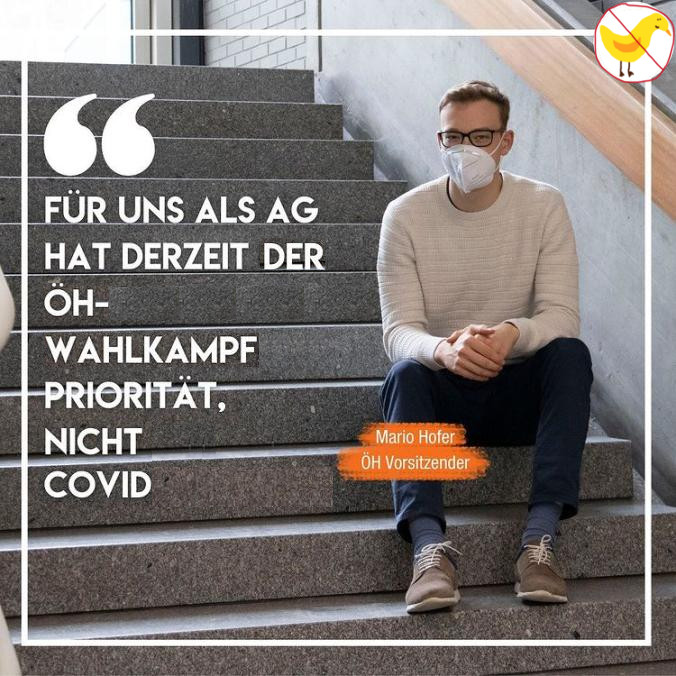
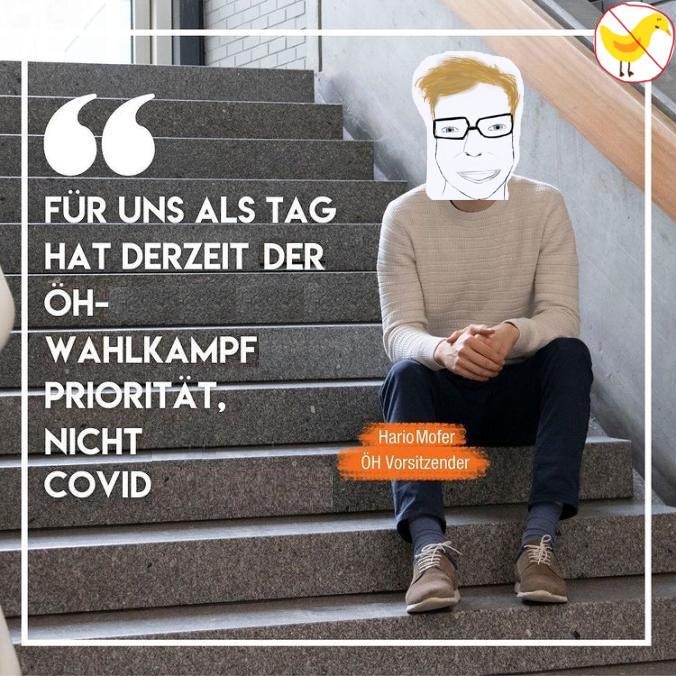
sinnvolle Vertretungsarbeit

Changed region(s): [[0.5902, 0.0621, 0.7766, 0.3107], [0.3728, 0.2796, 0.497, 0.3417], [0.5592, 0.6213, 0.6524, 0.6524]]

diff --git a/pages/imprint.vue b/pages/imprint.vue
@@ -11,6 +11,9 @@
       E-Mail:
       <a href="mailto:hario.mofer@uniteicht.at">hario.mofer@uniteicht.at</a>
     </p>
+    <p>
+      Die Projektseite findest du unter <a href="https://github.com/uniteicht/uniteicht.github.io" target="_blank"><img class="icon" src="/img/external-link-symbol.svg" />https://github.com/uniteicht/uniteicht.github.io</a>.
+    </p>
 
     <h2>Credits</h2>
     <p>
@@ -19,7 +22,15 @@
         >Dave Gandy</a
       >
       from
-      <a href="https://www.flaticon.com/" title="Flaticon">www.flaticon.com</a>
+      <a href="https://www.flaticon.com/" title="Flaticon">www.flaticon.com</a><br/>  
+      Vielen Dank an Alle, die bereits an ihrer kreativen Ader geritzt, und so viel Herzblut in dieses Projekt gegossen haben.
+      
+      <!-- 
+        Erwähnung bitte hier über diesem Kommentar einfügen.
+        Dein Github Benutzername muss mit dem Account übereinstimmen, der den Pull-Request erstellt hat.
+        Beispiel:
+        [M. Muster](github.com/dein-github-benutzername)
+       -->
     </p>
 
     <h2>Webdesign</h2>

diff --git a/README.md b/README.md
@@ -1,9 +1,37 @@
 # This is sirius business.
 
+Seite ist erreichbar unter [https://uniteicht.at](https://uniteicht.at)
+
 ## Du willst auch sinnvolle Vertretungsarbeit leisten?
 1. Projekt forken und herunterladen
+1. Kreativ werden! (Nutze bei Bedarf auch die Vorlagen im templates Ordner als Inspiration)
 1. Meme unter /static/meme ablegen
 1. Datei /components/MemeList.vue editieren (Anleitung direkt in der Datei)
 1. Committen, Pushen und Pull-Request mit dem Titel "sinnvolle Vertretungsarbeit" und leerer Beschreibung erstellen
 1. ???
 1. Profit!
+
+Wenn du dafür in den Credits erwähnt werden willst, kannst du dich direkt bei den Credits in der Datei /pages/imprint.vue eintragen. Das dann aber bitte im Pull-Request anmerken!
+
+---
+
+## Hario Mofer
+(Kunstfigur, Ähnlichkeiten mit lebenden Personen sind rein zufällig)
+
+Hario ist Vorsitzender einer wichtigen Organisation. Wir nennen diese hier meistens einfach nur "ÖH". Hario ist auch Teil der deiner Taktionsgemeinschaft. 
+Er spielt gerne Klarinette und mit seiner Brille.
+Gerne steht er auch im Rampenlicht.
+Manchmal auch daneben. Wenn auch nur ungern. Hario ärgert sich. Das ist unfair.
+
+Grafische Vorlagen, unter anderem für die Kunstfigur "Hario Mofer", befinden sich im Ordner templates.
+
+---
+
+### Bedenke
+Pull Requests mit persönlichen Attacken oder Beleidigungen werden ausnahmslos abgelehnt.
+Denke daran, dass die Pull-Requests ebenfalls öffentlich einsehbar sind, und du für diesen Inhalt verantwortlich bist. Die Seite ist zur allgemeinen Erheiterung gedacht, und soll niemanden verletzen.
+
+### Ursprung dieses Projekts
+Einige Tage vor Beginn der Osterferien flatterte ein Werbeflyer bei meiner WG-Tür herein. "Frohe Ostern wünscht dir deine AG" stand darauf geschrieben. Die durchgehende Großschreibung - wie auf dem Original - erspare ich deinen müden Augen hier. "Hier kann es sich nur um eine Verwechslung handeln", dachte ich, hatte doch die AG nur wenige Tage zuvor (15.03.2021) auf Instagram folgenden Text veröffentlicht: "Während andere Fraktionen schon mitten im ÖH-Wahlkampf sind, hat für uns als AG das Krisenmanagement in der ÖH JKU Priorität! [...]".
+
+Um der Sache auf den Grund zu gehen, suchte ich den Flyer verzweifelt nach einem Impressum ab und fand am unteren Rand der Vorderseite die Angabe "uniteicht.at". Sofort rief ich die Seite auf, um den Herausgeber des Flyers kennenzulernen, wo ich jedoch prompt enttäuscht wurde. Die Seite exisierte nicht. Als Mensch, der immer an das Gute glaubt, wollte ich meinen Nächsten diese tragische Erfahrung ersparen, und startete die Website [uniteicht.at](https://uniteicht.at).

diff --git a/templates/README.md b/templates/README.md
@@ -1,0 +1,5 @@
+# Vorlagen
+
+Die Vorlagen in diesem Ordner darfst du verwenden, um kreative und lustige Memes für https://uniteicht.at zu gestalten. Vergiss nicht, diese dann auch (per Pull-Request) einzureichen!
+
+Vielen Dank an Helena für die tolle Grafik "HarioMofer.png"!
